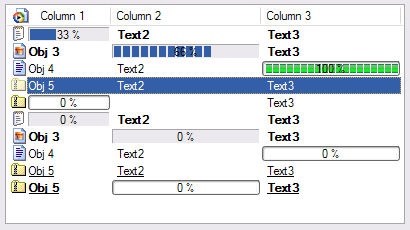
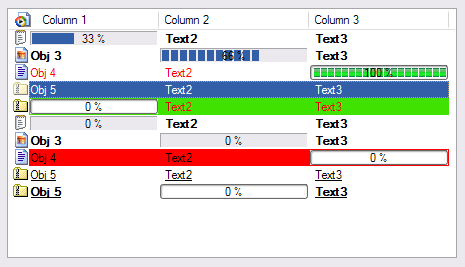
- fixed up error in listview.php - updated dcxvsmdx.php - added some colors to listview.png - added my name to dcxdoc title =P - added update background image when dialog resized

diff --git a/Classes/dcxdialog.cpp b/Classes/dcxdialog.cpp
@@ -1566,6 +1566,7 @@ LRESULT WINAPI DcxDialog::WindowProc( HWND mHwnd, UINT uMsg, WPARAM wParam, LPAR
           RECT rc;
           SetRect( &rc, 0, 0, LOWORD( lParam ), HIWORD( lParam ) );
           p_this->updateLayout( rc );
+			 p_this->redrawWindow();
 
           if ( lstrcmp( "nosize", ret ) == 0 )
             return 0L;
@@ -1695,12 +1696,17 @@ LRESULT WINAPI DcxDialog::WindowProc( HWND mHwnd, UINT uMsg, WPARAM wParam, LPAR
           COLORREF clrBackText = p_Control->getBackColor( );
           HBRUSH hBackBrush = p_Control->getBackClrBrush( );
           
+				// let static controls shine through
+//				SetBkMode((HDC) wParam, TRANSPARENT);
+//				return (LRESULT) GetStockBrush(HOLLOW_BRUSH);
+
           /*
           char data[500];
           wsprintf( data, "%d - %x - %d %d %x", p_Control->getUserID( ), lParam, clrText, clrBackText, hBackBrush );
           mIRCError( data );
           */
-
+//http://www.ddj.com/dept/windows/184416395
+//http://www.codeguru.com/Cpp/misc/samples/article.php/c1469#download
           if ( clrText != -1 )
             SetTextColor( (HDC) wParam, clrText );
 

diff --git a/docs_new/inc/dcxvsmdx.php b/docs_new/inc/dcxvsmdx.php
@@ -113,7 +113,7 @@ function dcx_vs_mdx() {
 
 	<tr>
 		<td class="section_title section_bg">Calendar</td>
-		<td class="section_bg"><img src="images/ok.gif" alt="Has feature" /></td>
+		<td class="section_bg"><img src="images/ok.gif" alt="Has feature" /> Incomplete</td>
         <td class="section_bg"><img src="images/no.gif" alt="Does not have feature" /></td>
 	</tr>
 
@@ -234,7 +234,11 @@ function dcx_vs_mdx() {
 
 	<tr>
 		<td class="comparison">Dropdowns and progressbars in an item:</td>
-        <td><img src="images/no.gif" alt="Does not have feature" /></td>
+        <td>
+			<img src="images/ok.gif" alt="Does not have feature" />
+			<img src="images/no.gif" alt="Does not have feature" /><br />
+			Has progress bars
+		</td>
 		<td><img src="images/no.gif" alt="Does not have feature" /></td>
 	</tr>
 

diff --git a/docs_new/inc/listview.php b/docs_new/inc/listview.php
@@ -201,8 +201,11 @@ function get_xdid_listview(&$XDID) {
 	        '__eg' => '2 + 100',
 			'__params' => array(
                 '+FLAGS' => array(
-					'a' => 'Autosize.',
-					'h'=> 'Autosize according to header text width.',
+                    '__desc' => 'Flags for column width.',
+                    '__values' => array(
+						'a' => 'Autosize.',
+						'h'=> 'Autosize according to header text width.',
+					),
 				),
                 'WIDTH' => 'Header width (Ignored if you use flags +a or +h).',
                 'ICON' => 'Icon index ([v]0[/v] for first column)',

diff --git a/docs_new/dcx_inc.php b/docs_new/dcx_inc.php
@@ -124,7 +124,7 @@ function dcxdoc_header($page, $pagelabel) {
 <html xmlns="http://www.w3.org/1999/xhtml">
 <head>
 
-<title>DCX <?php if ($page != 'index') echo "$pagelabel "; ?>- Dialog Control Xtension DLL v<?php echo $VERSION; ?> by ClickHeRe</title>
+<title>DCX <?php if ($page != 'index') echo "$pagelabel "; ?>- Dialog Control Xtension DLL v<?php echo $VERSION; ?> by ClickHeRe &amp; twig*</title>
 
 <link href="dcx.css" rel="stylesheet" type="text/css" />
 </head>
